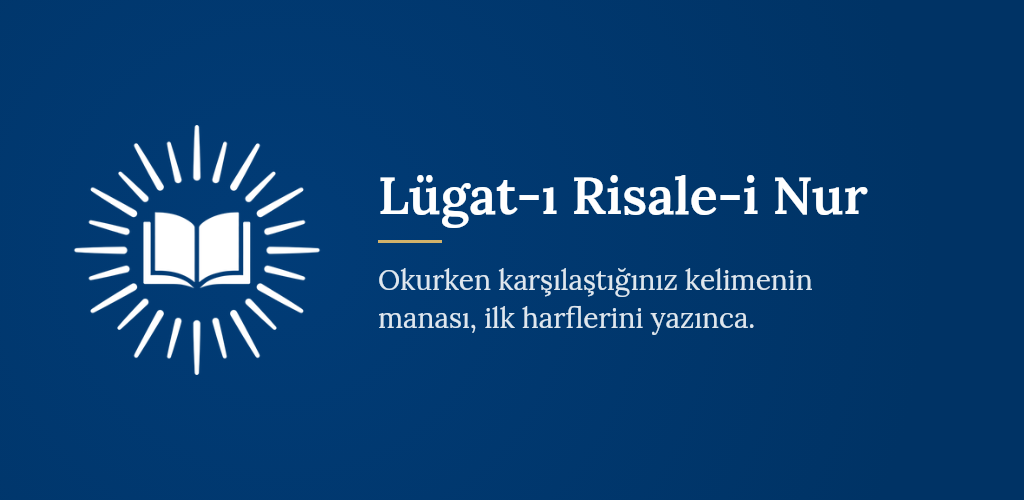
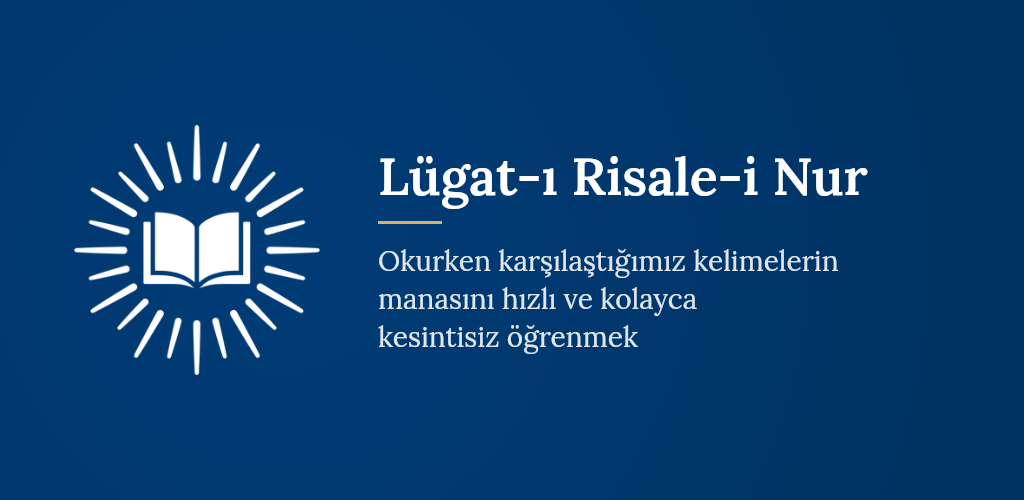
Özellik grafiğinde yeni tanıtım cümlesi
Claude-Session: https://claude.ai/code/session_012Wmh5kpYwFhetbPrYm7Vxa

Changed region(s): [[0.3438, 0.48, 0.8438, 0.72], [0.375, 0.3, 0.8438, 0.45]]

diff --git a/tool/magaza/magaza_gorselleri_test.dart b/tool/magaza/magaza_gorselleri_test.dart
@@ -165,7 +165,7 @@ void main() {
                     const SizedBox(height: 14),
                     Container(width: 64, height: 3, color: Palette.goldLight),
                     const SizedBox(height: 18),
-                    Text('Okurken karşılaştığınız kelimenin\nmanası, ilk harflerini yazınca.',
+                    Text('Okurken karşılaştığımız kelimelerin\nmanasını hızlı ve kolayca\nkesintisiz öğrenmek',
                         style: theme.textTheme.titleLarge?.copyWith(color: Colors.white.withValues(alpha: 0.88), fontWeight: FontWeight.w400, fontSize: 28, height: 1.35)),
                   ],
                 ),
